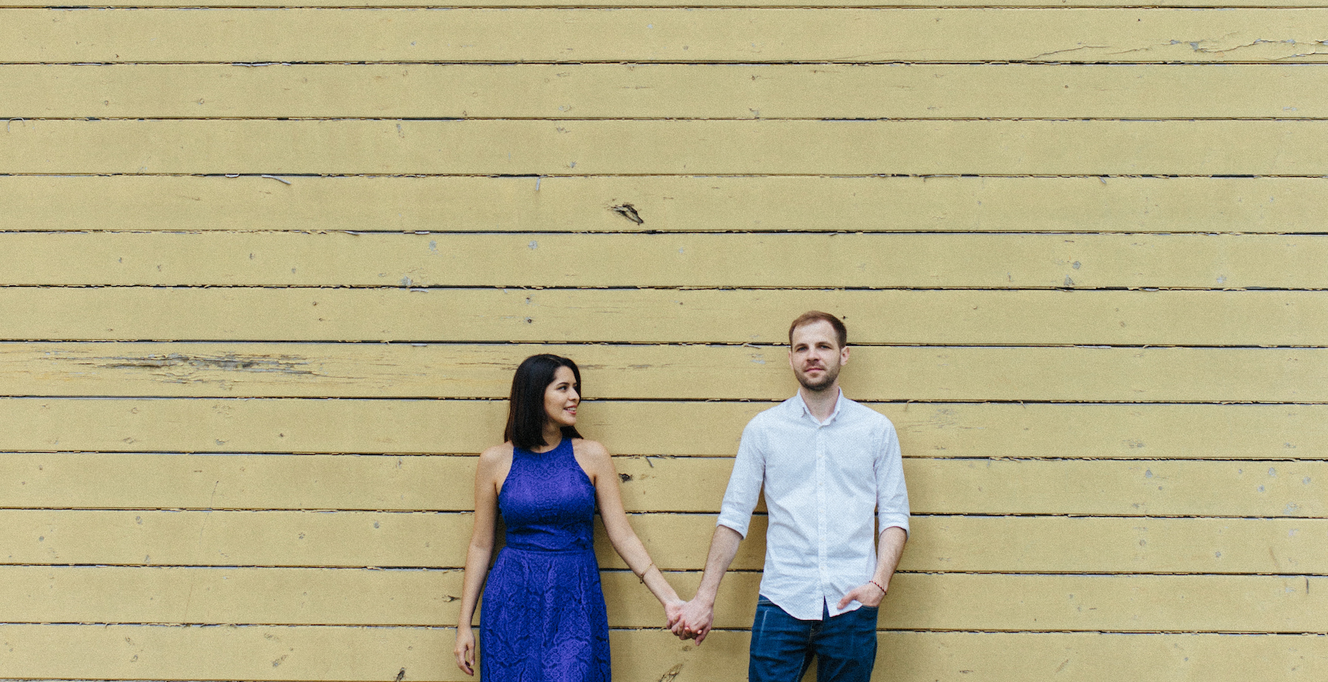
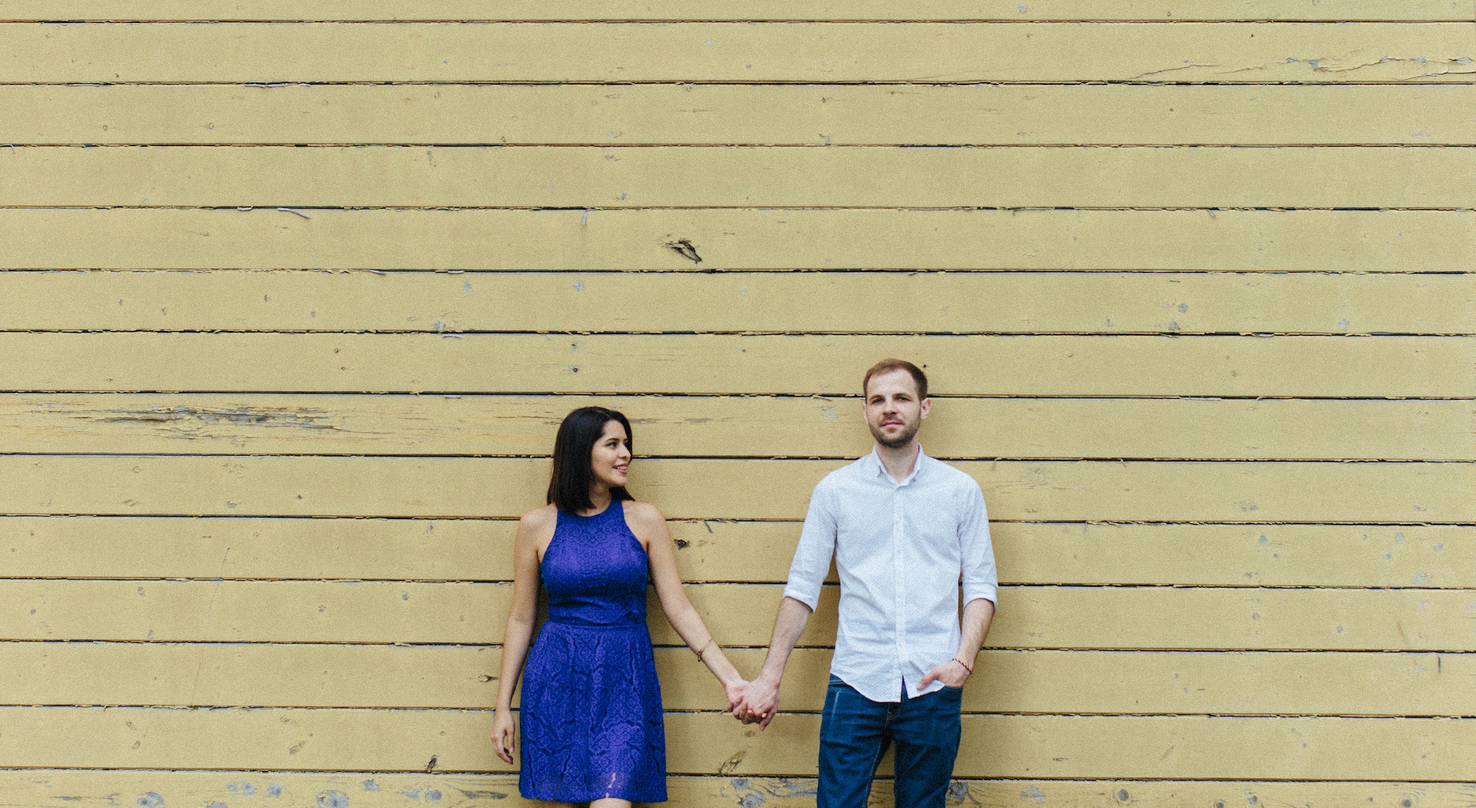
Fix background

diff --git a/css/style.css b/css/style.css
@@ -94,6 +94,7 @@ body {
     background-image: url('../photos/background.jpg');
     background-repeat: no-repeat;
     background-size: 100%;
+    background-attachment: fixed;
     background-position: center;
 }
 
@@ -106,6 +107,8 @@ body {
 #afterparty-panel {
     background-color: #ff4662;
     background-image: url('../img/cow.png');
+    background-attachment: fixed;
+    background-size: 60%;
     background-repeat: no-repeat;
     background-position: center;
 }
